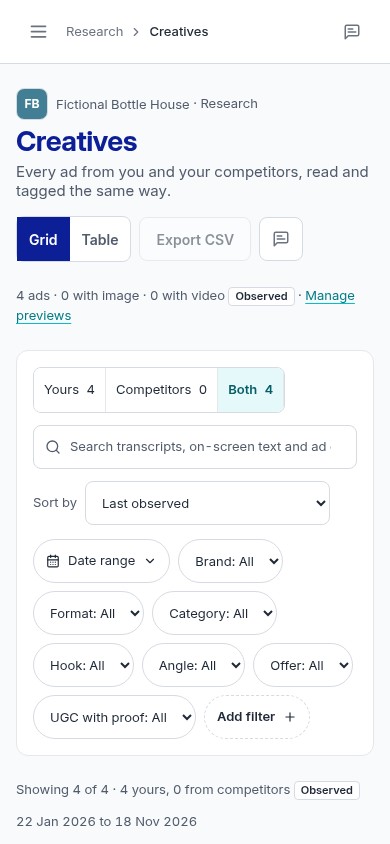
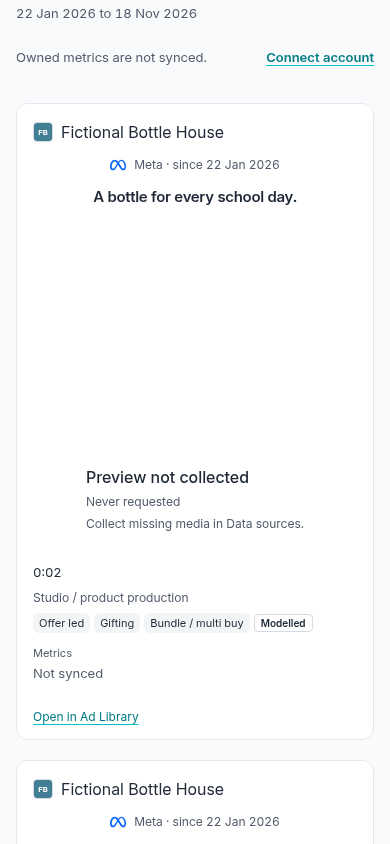
docs(UI-02): frame mobile screenshots around creative cards

diff --git a/tests/ui_media_handoff_browser.py b/tests/ui_media_handoff_browser.py
@@ -34,14 +34,14 @@ async def main():
   for card in await cards.all():await expect(card.locator('h3')).to_have_count(1)
   assert 'During this backfill' not in await page.locator('main').inner_text()
   await page.screenshot(path=str(OUT/'pending-1440.png'))
-  await page.set_viewport_size({'width':390,'height':844});await page.screenshot(path=str(OUT/'pending-390.png'))
+  await page.set_viewport_size({'width':390,'height':844});await cards.first.scroll_into_view_if_needed();await page.screenshot(path=str(OUT/'pending-390.png'))
   await page.set_viewport_size({'width':1440,'height':1100});phase='after'
   await page.wait_for_function("()=>{const images=[...document.querySelectorAll('.ui-creative-poster>img')];return images.length===4&&images.every(img=>img.complete&&img.naturalWidth===320)}",timeout=40000)
   assert len(reads)==2,reads
   await expect(page.get_by_text('Preview not collected',exact=True)).to_have_count(0)
   await expect(page.get_by_role('link',name='Manage previews')).to_have_count(0)
   await page.screenshot(path=str(OUT/'retained-1440.png'))
-  await page.set_viewport_size({'width':390,'height':844});await page.screenshot(path=str(OUT/'retained-390.png'))
+  await page.set_viewport_size({'width':390,'height':844});await cards.first.scroll_into_view_if_needed();await page.screenshot(path=str(OUT/'retained-390.png'))
   assert not errors and not external,(errors,external)
   result={'ads':4,'decodedImages':len(images),'automaticRefreshes':len(reads)-1,'secondsToRefresh':round(reads[1]['at']-reads[0]['at'],1),'browserErrors':errors,'externalRequests':external}
   (OUT/'results.json').write_text(json.dumps(result,indent=2)+'\n');print(json.dumps(result));await browser.close()

diff --git a/.agent/plans/media-backfill-handoff.md b/.agent/plans/media-backfill-handoff.md
@@ -26,8 +26,8 @@ the existing 500-ad selector and budget/disk guards; no read-time paid dispatch.
 
 ## Outcomes and retrospective
 Handoff and busy-worker fixtures passed. Four retained PNGs decoded in a browser,
-with one automatic refresh after 30 seconds and no external requests. Full checks
-and CI are pending. The screenshot's precise production cause is not
+with one automatic refresh after 30 seconds and no external requests. The PR records final command and CI results. Browser screenshots cover 1440px
+and 390px; mobile captures scroll to the cards. The screenshot's precise production cause is not
 verified; report proven code paths and keep configuration failures diagnosable.
 
 ## Context and orientation
